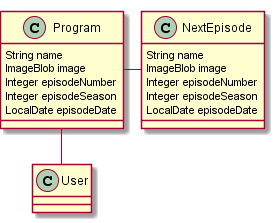
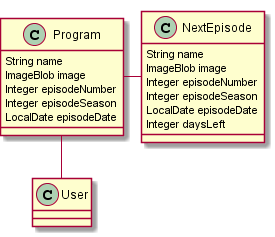
Added basic 'days left' functionality to next episodes page

Changed region(s): [[0.4364, 0.0269, 0.9891, 0.6457], [0.0, 0.0269, 0.4945, 0.6188], [0.1164, 0.7265, 0.3782, 0.9686]]

diff --git a/src/main/webapp/app/home/home.component.html b/src/main/webapp/app/home/home.component.html
@@ -1,5 +1,6 @@
 <div class="row">
-    <div class="col-md-4 col-md-offset-4">
+    <div class="col-md-4"></div>
+    <div class="col-md-4">
         <div class="alert alert-success" *ngIf="isAuthenticated()">
             <span id="home-logged-message" *ngIf="account"> You are logged in as user "{{account.login}}". </span>
         </div>
@@ -22,14 +23,15 @@
                 <div class="card-body">
                     <h5 class="card-title">{{episode.name}}</h5>
                     <p class="card-text" *ngIf="episode.episodeSeason">
-                        Season: {{episode.episodeSeason}}
+                        Season: {{episode.episodeSeason}},
                         Episode: {{episode.episodeNumber}}
                     </p>
                     <p class="card-text" *ngIf="!episode.episodeSeason">
                         Episode: {{episode.episodeNumber}}
                     </p>
                     <p class="card-text">
-                        Release Date: {{episode.episodeDate | date}}
+                        Release Date: {{episode.episodeDate | date}}<br>
+                        Days left: {{daysLeft(episode.episodeDate)}}
                     </p>
                     <a href="#" class="btn btn-primary">Mark as Seen</a>
                 </div>

diff --git a/src/test/javascript/e2e/entities/next-episode/next-episode.page-object.ts b/src/test/javascript/e2e/entities/next-episode/next-episode.page-object.ts
@@ -31,6 +31,7 @@ export class NextEpisodeUpdatePage {
     episodeNumberInput = element(by.id('field_episodeNumber'));
     episodeSeasonInput = element(by.id('field_episodeSeason'));
     episodeDateInput = element(by.id('field_episodeDate'));
+    daysLeftInput = element(by.id('field_daysLeft'));
 
     async getPageTitle() {
         return this.pageTitle.getText();
@@ -74,6 +75,14 @@ export class NextEpisodeUpdatePage {
 
     async getEpisodeDateInput() {
         return this.episodeDateInput.getAttribute('value');
+    }
+
+    async setDaysLeftInput(daysLeft) {
+        await this.daysLeftInput.sendKeys(daysLeft);
+    }
+
+    async getDaysLeftInput() {
+        return this.daysLeftInput.getAttribute('value');
     }
 
     async save() {

diff --git a/src/main/webapp/app/entities/next-episode/next-episode.component.ts b/src/main/webapp/app/entities/next-episode/next-episode.component.ts
@@ -7,6 +7,7 @@ import { JhiEventManager, JhiAlertService, JhiDataUtils } from 'ng-jhipster';
 import { INextEpisode } from 'app/shared/model/next-episode.model';
 import { Principal } from 'app/core';
 import { NextEpisodeService } from './next-episode.service';
+import * as moment from 'moment';
 
 @Component({
     selector: 'jhi-next-episode',
@@ -30,6 +31,10 @@ export class NextEpisodeComponent implements OnInit, OnDestroy {
             this.activatedRoute.snapshot && this.activatedRoute.snapshot.params['search']
                 ? this.activatedRoute.snapshot.params['search']
                 : '';
+    }
+
+    public daysLeft(episodeDate) {
+        return moment(episodeDate).diff(moment(), 'days');
     }
 
     loadAll() {

diff --git a/src/main/webapp/app/entities/next-episode/next-episode.component.html b/src/main/webapp/app/entities/next-episode/next-episode.component.html
@@ -35,6 +35,7 @@
             <th><span>Episode Number</span></th>
             <th><span>Episode Season</span></th>
             <th><span>Episode Date</span></th>
+            <th><span>Days Left</span></th>
             <th></th>
             </tr>
             </thead>
@@ -51,6 +52,7 @@
                 <td>{{nextEpisode.episodeNumber}}</td>
                 <td>{{nextEpisode.episodeSeason}}</td>
                 <td>{{nextEpisode.episodeDate | date:'mediumDate'}}</td>
+                <td>{{daysLeft(nextEpisode.episodeDate)}}</td>
                 <td class="text-right">
                     <div class="btn-group flex-btn-group-container">
                         <button type="submit"

diff --git a/src/main/webapp/app/home/home.component.ts b/src/main/webapp/app/home/home.component.ts
@@ -5,6 +5,7 @@ import { JhiEventManager, JhiDataUtils } from 'ng-jhipster';
 import { LoginModalService, Principal, Account } from 'app/core';
 import { NextEpisodeService } from 'app/entities/next-episode';
 import { NextEpisode } from 'app/shared/model/next-episode.model';
+import * as moment from 'moment';
 
 @Component({
     selector: 'jhi-home',
@@ -26,6 +27,10 @@ export class HomeComponent implements OnInit {
             this.loadNextEpisodes();
         });
         this.registerAuthenticationSuccess();
+    }
+
+    public daysLeft(episodeDate) {
+        return moment(episodeDate).diff(moment(), 'days');
     }
 
     registerAuthenticationSuccess() {

diff --git a/src/main/webapp/app/shared/model/next-episode.model.ts b/src/main/webapp/app/shared/model/next-episode.model.ts
@@ -8,6 +8,8 @@ export interface INextEpisode {
     episodeNumber?: number;
     episodeSeason?: number;
     episodeDate?: Moment;
+    daysLeft?: number;
+    alreadyOut?: boolean;
 }
 
 export class NextEpisode implements INextEpisode {
@@ -18,6 +20,8 @@ export class NextEpisode implements INextEpisode {
         public image?: any,
         public episodeNumber?: number,
         public episodeSeason?: number,
-        public episodeDate?: Moment
+        public episodeDate?: Moment,
+        public daysLeft?: number,
+        public alreadyOut?: boolean
     ) {}
 }

diff --git a/src/test/javascript/e2e/entities/next-episode/next-episode.spec.ts b/src/test/javascript/e2e/entities/next-episode/next-episode.spec.ts
@@ -50,6 +50,8 @@ describe('NextEpisode e2e test', () => {
         expect(await nextEpisodeUpdatePage.getEpisodeSeasonInput()).to.eq('5');
         await nextEpisodeUpdatePage.setEpisodeDateInput('2000-12-31');
         expect(await nextEpisodeUpdatePage.getEpisodeDateInput()).to.eq('2000-12-31');
+        await nextEpisodeUpdatePage.setDaysLeftInput('5');
+        expect(await nextEpisodeUpdatePage.getDaysLeftInput()).to.eq('5');
         await nextEpisodeUpdatePage.save();
         expect(await nextEpisodeUpdatePage.getSaveButton().isPresent()).to.be.false;
 

diff --git a/src/main/webapp/app/entities/next-episode/next-episode-update.component.html b/src/main/webapp/app/entities/next-episode/next-episode-update.component.html
@@ -57,6 +57,11 @@
                         </span>
                     </div>
                 </div>
+                <div class="form-group">
+                    <label class="form-control-label" for="field_daysLeft">Days Left</label>
+                    <input type="number" class="form-control" name="daysLeft" id="field_daysLeft"
+                        [(ngModel)]="nextEpisode.daysLeft" />
+                </div>
 
             </div>
             <div>

diff --git a/src/main/webapp/app/entities/next-episode/next-episode-detail.component.html b/src/main/webapp/app/entities/next-episode/next-episode-detail.component.html
@@ -30,6 +30,10 @@
                 <dd>
                     <span>{{nextEpisode.episodeDate}}</span>
                 </dd>
+                <dt><span>Days Left</span></dt>
+                <dd>
+                    <span>{{nextEpisode.daysLeft}}</span>
+                </dd>
             </dl>
 
             <button type="submit"

diff --git a/src/test/java/com/brandon/presley/next/episode/web/rest/NextEpisodeResourceIntTest.java b/src/test/java/com/brandon/presley/next/episode/web/rest/NextEpisodeResourceIntTest.java
@@ -63,6 +63,9 @@ public class NextEpisodeResourceIntTest {
     private static final LocalDate DEFAULT_EPISODE_DATE = LocalDate.ofEpochDay(0L);
     private static final LocalDate UPDATED_EPISODE_DATE = LocalDate.now(ZoneId.systemDefault());
 
+    private static final Integer DEFAULT_DAYS_LEFT = 1;
+    private static final Integer UPDATED_DAYS_LEFT = 2;
+
     @Autowired
     private NextEpisodeRepository nextEpisodeRepository;
 
@@ -114,7 +117,8 @@ public class NextEpisodeResourceIntTest {
             .imageContentType(DEFAULT_IMAGE_CONTENT_TYPE)
             .episodeNumber(DEFAULT_EPISODE_NUMBER)
             .episodeSeason(DEFAULT_EPISODE_SEASON)
-            .episodeDate(DEFAULT_EPISODE_DATE);
+            .episodeDate(DEFAULT_EPISODE_DATE)
+            .daysLeft(DEFAULT_DAYS_LEFT);
         return nextEpisode;
     }
 
@@ -144,6 +148,7 @@ public class NextEpisodeResourceIntTest {
         assertThat(testNextEpisode.getEpisodeNumber()).isEqualTo(DEFAULT_EPISODE_NUMBER);
         assertThat(testNextEpisode.getEpisodeSeason()).isEqualTo(DEFAULT_EPISODE_SEASON);
         assertThat(testNextEpisode.getEpisodeDate()).isEqualTo(DEFAULT_EPISODE_DATE);
+        assertThat(testNextEpisode.getDaysLeft()).isEqualTo(DEFAULT_DAYS_LEFT);
 
         // Validate the NextEpisode in Elasticsearch
         verify(mockNextEpisodeSearchRepository, times(1)).save(testNextEpisode);
@@ -205,7 +210,8 @@ public class NextEpisodeResourceIntTest {
             .andExpect(jsonPath("$.[*].image").value(hasItem(Base64Utils.encodeToString(DEFAULT_IMAGE))))
             .andExpect(jsonPath("$.[*].episodeNumber").value(hasItem(DEFAULT_EPISODE_NUMBER)))
             .andExpect(jsonPath("$.[*].episodeSeason").value(hasItem(DEFAULT_EPISODE_SEASON)))
-            .andExpect(jsonPath("$.[*].episodeDate").value(hasItem(DEFAULT_EPISODE_DATE.toString())));
+            .andExpect(jsonPath("$.[*].episodeDate").value(hasItem(DEFAULT_EPISODE_DATE.toString())))
+            .andExpect(jsonPath("$.[*].daysLeft").value(hasItem(DEFAULT_DAYS_LEFT)));
     }
     
     @Test
@@ -224,7 +230,8 @@ public class NextEpisodeResourceIntTest {
             .andExpect(jsonPath("$.image").value(Base64Utils.encodeToString(DEFAULT_IMAGE)))
             .andExpect(jsonPath("$.episodeNumber").value(DEFAULT_EPISODE_NUMBER))
             .andExpect(jsonPath("$.episodeSeason").value(DEFAULT_EPISODE_SEASON))
-            .andExpect(jsonPath("$.episodeDate").value(DEFAULT_EPISODE_DATE.toString()));
+            .andExpect(jsonPath("$.episodeDate").value(DEFAULT_EPISODE_DATE.toString()))
+            .andExpect(jsonPath("$.daysLeft").value(DEFAULT_DAYS_LEFT));
     }
 
     @Test
@@ -253,7 +260,8 @@ public class NextEpisodeResourceIntTest {
             .imageContentType(UPDATED_IMAGE_CONTENT_TYPE)
             .episodeNumber(UPDATED_EPISODE_NUMBER)
             .episodeSeason(UPDATED_EPISODE_SEASON)
-            .episodeDate(UPDATED_EPISODE_DATE);
+            .episodeDate(UPDATED_EPISODE_DATE)
+            .daysLeft(UPDATED_DAYS_LEFT);
 
         restNextEpisodeMockMvc.perform(put("/api/next-episodes")
             .contentType(TestUtil.APPLICATION_JSON_UTF8)
@@ -270,6 +278,7 @@ public class NextEpisodeResourceIntTest {
         assertThat(testNextEpisode.getEpisodeNumber()).isEqualTo(UPDATED_EPISODE_NUMBER);
         assertThat(testNextEpisode.getEpisodeSeason()).isEqualTo(UPDATED_EPISODE_SEASON);
         assertThat(testNextEpisode.getEpisodeDate()).isEqualTo(UPDATED_EPISODE_DATE);
+        assertThat(testNextEpisode.getDaysLeft()).isEqualTo(UPDATED_DAYS_LEFT);
 
         // Validate the NextEpisode in Elasticsearch
         verify(mockNextEpisodeSearchRepository, times(1)).save(testNextEpisode);
@@ -334,7 +343,8 @@ public class NextEpisodeResourceIntTest {
             .andExpect(jsonPath("$.[*].image").value(hasItem(Base64Utils.encodeToString(DEFAULT_IMAGE))))
             .andExpect(jsonPath("$.[*].episodeNumber").value(hasItem(DEFAULT_EPISODE_NUMBER)))
             .andExpect(jsonPath("$.[*].episodeSeason").value(hasItem(DEFAULT_EPISODE_SEASON)))
-            .andExpect(jsonPath("$.[*].episodeDate").value(hasItem(DEFAULT_EPISODE_DATE.toString())));
+            .andExpect(jsonPath("$.[*].episodeDate").value(hasItem(DEFAULT_EPISODE_DATE.toString())))
+            .andExpect(jsonPath("$.[*].daysLeft").value(hasItem(DEFAULT_DAYS_LEFT)));
     }
 
     @Test

diff --git a/src/main/java/com/brandon/presley/next/episode/domain/NextEpisode.java b/src/main/java/com/brandon/presley/next/episode/domain/NextEpisode.java
@@ -46,6 +46,12 @@ public class NextEpisode implements Serializable {
     @Column(name = "episode_date")
     private LocalDate episodeDate;
 
+    @Column(name = "days_left")
+    private Integer daysLeft;
+
+    @Column(name = "already_out")
+    private boolean alreadyOut;
+
     // jhipster-needle-entity-add-field - JHipster will add fields here, do not remove
     public Long getId() {
         return id;
@@ -132,6 +138,23 @@ public class NextEpisode implements Serializable {
     public void setEpisodeDate(LocalDate episodeDate) {
         this.episodeDate = episodeDate;
     }
+
+    public boolean getAlreadyOut() {
+        return alreadyOut;
+    }
+
+    public Integer getDaysLeft() {
+        return daysLeft;
+    }
+
+    public NextEpisode daysLeft(Integer daysLeft) {
+        this.daysLeft = daysLeft;
+        return this;
+    }
+
+    public void setDaysLeft(Integer daysLeft) {
+        this.daysLeft = daysLeft;
+    }
     // jhipster-needle-entity-add-getters-setters - JHipster will add getters and setters here, do not remove
 
     @Override
@@ -164,6 +187,7 @@ public class NextEpisode implements Serializable {
             ", episodeNumber=" + getEpisodeNumber() +
             ", episodeSeason=" + getEpisodeSeason() +
             ", episodeDate='" + getEpisodeDate() + "'" +
+            ", daysLeft=" + getDaysLeft() +
             "}";
     }
 }
